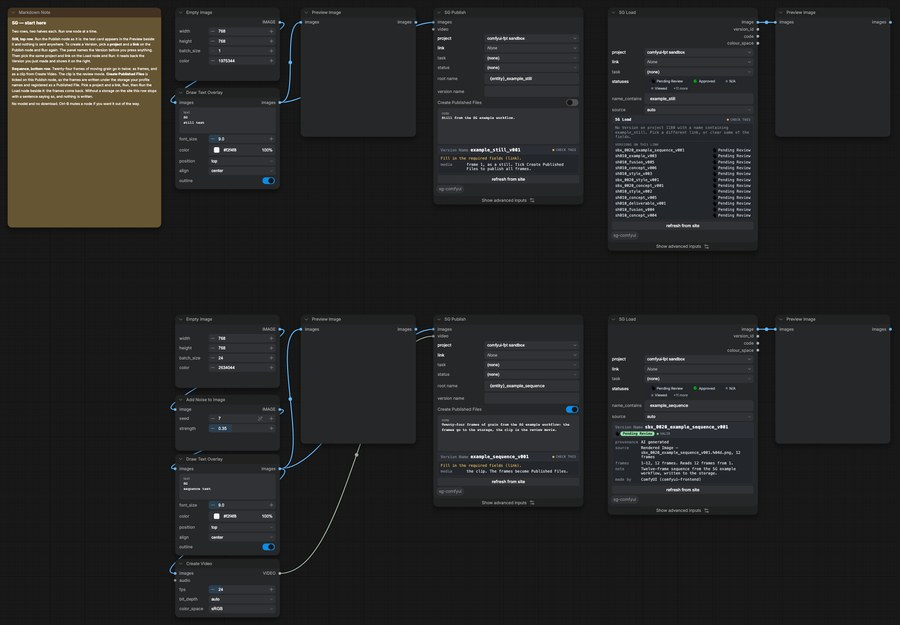
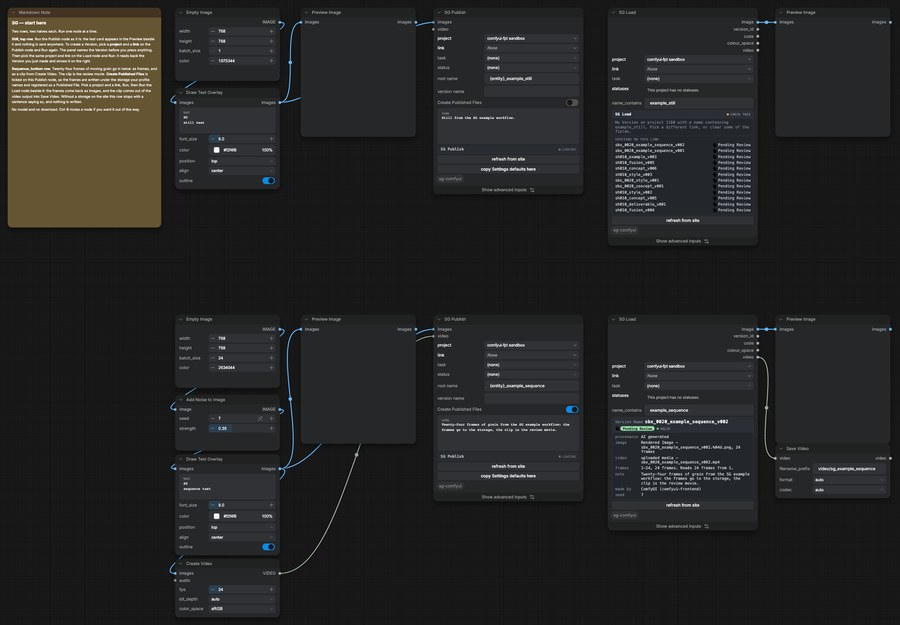
SG Load has two outputs, and each takes the best the Version has
image takes a sequence, else a clip decoded, else a still, else the thumbnail. video takes a Movie
Published File, else the movie on the storage, else the uploaded mp4 untouched, else the frames
wrapped at the Version's frame rate or 24 fps said out loud. source moves to the fold as the
override that feeds both outputs from one file; the site's transcode is never offered; the
thumbnail is a fallback and not a choice; the clip is fetched only when the output is wired. The
panel shows one row per output. 00_example's sequence row ends in a Save Video.

Claude-Session: https://claude.ai/code/session_01MwFkDPjc7RmqvNCP6967ir

diff --git a/web/sg_panel.js b/web/sg_panel.js
@@ -259,10 +259,11 @@ export function addPanel(node, title = "SG", onLayout = null) {
       // "unrecorded" never reads as "not AI": it says only that this Version carries no record of
       // how it was made, which is all the data supports.
       if (PROVENANCE[d.provenance]) rows.push(["provenance", PROVENANCE[d.provenance]]);
-      // What will actually be read, and what it claims to be. `source` is a combo holding a key, so
+      // What each output will take, and what it claims to be. `source` is a combo holding a key, so
       // the type, the filename and the frame count exist only here, and a colour space is what an
       // artist about to comp must see before the pixels reach a node that assumes sRGB.
-      if (d.source_label) rows.push(["source", d.source_label]);
+      if (d.image_label) rows.push(["image", d.image_label]);
+      if (d.video_label) rows.push(["video", d.video_label]);
       // The frame numbers this source has: `frame` is a number in a filename, and 0 means "wherever
       // the sequence starts", so the range belongs beside the widgets that ask for it.
       if (d.frames) {

diff --git a/src/comfyui_sg/nodes/load_version.py b/src/comfyui_sg/nodes/load_version.py
@@ -93,7 +93,7 @@ class SGLoadVersion:
                                  + " This project allows: "
                                  + ", ".join(l for l, _ in statuses)},
                 }),
-            "hidden": {"unique_id": "UNIQUE_ID"},
+            "hidden": {"unique_id": "UNIQUE_ID", "prompt": "PROMPT"},
         }
 
     @classmethod
@@ -112,8 +112,8 @@ class SGLoadVersion:
     # `colour_space` is an output rather than a log line because an artist about to comp acts on it:
     # it feeds the publish node's own colour_space widget, so a claim made once upstream travels
     # with the pixels. Empty when nothing was declared — recorded, never applied, never inferred.
-    RETURN_TYPES = ("IMAGE", "INT", "STRING", "STRING")
-    RETURN_NAMES = ("image", "version_id", "code", "colour_space")
+    RETURN_TYPES = ("IMAGE", "INT", "STRING", "STRING", "VIDEO")
+    RETURN_NAMES = ("image", "version_id", "code", "colour_space", "video")
     FUNCTION = "load"
     CATEGORY = "Flow Production Tracking"
     DESCRIPTION = ("Read a Flow Production Tracking Version's media into the graph, recording it "
@@ -187,7 +187,7 @@ class SGLoadVersion:
 
     def load(self, project=UNSET, link_type=UNSET, link=UNSET, task=UNSET, name_contains="",
               statuses=(), filters="", newest_by=resolve.BY_VERSION, pin_version_id=0, source=AUTO,
-              frame=0, frame_count=1, unique_id=None):
+              frame=0, frame_count=1, unique_id=None, prompt=None):
         if int(pin_version_id):
             vid, why = int(pin_version_id), "pinned by id"
         else:
@@ -212,12 +212,17 @@ class SGLoadVersion:
                 f"Version {vid} ({v.get('code')}) has no media this node can read. Check that the "
                 f"storage holding its files is mounted on this machine.")
 
-        key = available[0][0] if source in (AUTO, UNSET) else source.split(" — ")[0].strip()
-        if key not in [k for k, _ in available]:
-            # The labels, not the keys: a PublishedFile that has been renamed or re-typed no longer
-            # matches the saved value, and the listing is what tells you which.
-            raise ValueError(f"Version {vid} has no {key} to read. Pick one of these instead:\n  "
-                             + "\n  ".join(label for _, label in available))
+        # Each output takes its own best; a picked source makes both read that one file.
+        if source in (AUTO, UNSET):
+            key, clip_key = media.best(v, "image", available), media.best(v, "video", available)
+        else:
+            key = source.split(" — ")[0].strip()
+            if key not in [k for k, _ in available]:
+                # The labels, not the keys: a PublishedFile that has been renamed or re-typed no
+                # longer matches the saved value, and the listing is what tells you which.
+                raise ValueError(f"Version {vid} has no {key} to read. Pick one of these "
+                                 f"instead:\n  " + "\n  ".join(label for _, label in available))
+            clip_key = key if media.kind_of(v, key) == "movie" else ""
 
         # Recorded so a publish downstream can credit what was actually resolved — a rule-resolved
         # Version is not in the prompt graph, only the rule is. The file goes with it: a read that
@@ -238,6 +243,33 @@ class SGLoadVersion:
         # A batch that came back short is a fact about the media, said out loud rather than left for
         # the graph downstream to discover as a wrong frame count.
         short = f", short of the {frame_count} asked for" if len(frames) < int(frame_count) else ""
-        print(f"[SG] Loaded Version {vid}: {why}. Source {key}, {got}{short}."
+        images = torch.from_numpy(a)
+        # The clip is fetched only when something reads it: a download nobody asked for is a cost,
+        # and the frames wrapped at a stated rate are a video too.
+        if clip_key and _wired(prompt, unique_id, 4):
+            video, clip_why = media.clip(v, clip_key), f"the file, {clip_key}"
+        else:
+            fps, fps_why = media.frame_rate(v)
+            video, clip_why = _wrap(images, fps), f"the frames at {fps:g} fps, {fps_why}"
+        print(f"[SG] Loaded Version {vid}: {why}. Source {key}, {got}{short}. Video: {clip_why}."
               + (f" Colour space declared {colour}, recorded but not applied." if colour else ""))
-        return (torch.from_numpy(a), vid, v.get("code") or "", colour)
+        return (images, vid, v.get("code") or "", colour, video)
+
+
+def _wired(prompt, node_id, slot):
+    """Whether any node in the prompt reads this node's output `slot`."""
+    for node in (prompt or {}).values():
+        for val in (node.get("inputs") or {}).values():
+            if isinstance(val, list) and len(val) == 2 and str(val[0]) == str(node_id) \
+                    and int(val[1]) == slot:
+                return True
+    return False
+
+
+def _wrap(images, fps):
+    """An IMAGE batch as ComfyUI's own VIDEO object. Nothing is encoded until a node saves it."""
+    from fractions import Fraction
+
+    from comfy_api.input_impl import VideoFromComponents
+    from comfy_api.util import VideoComponents
+    return VideoFromComponents(VideoComponents(images=images, frame_rate=Fraction(fps)))

diff --git a/src/comfyui_sg/media.py b/src/comfyui_sg/media.py
@@ -18,7 +18,10 @@ import requests
 from sg_groundtruth.client import FPTError
 
 FIELDS = ["code", "image", "sg_uploaded_movie", "sg_path_to_movie", "sg_path_to_frames",
-          "sg_first_frame", "sg_last_frame"]
+          "sg_first_frame", "sg_last_frame", "sg_uploaded_movie_frame_rate"]
+
+# When no clip exists anywhere, the frames are wrapped at this rate and the log says so.
+DEFAULT_FPS = 24
 
 # Provenance the publish node writes (fields.py). Shown on the Load node so an artist can see what
 # they are building on before they run anything.
@@ -275,6 +278,69 @@ def sources(v):
         if detail:
             out.append((key, f"{label} — {detail}"))
     return out
+
+
+def kind_of(v, key):
+    """"sequence", "still" or "movie": the shape of what one source delivers."""
+    pf = pf_of(v, key)
+    if pf:
+        name = pf["path"]
+    elif key == "frames":
+        name = v.get("sg_path_to_frames") or ""
+    elif key == "movie":
+        name = v.get("sg_path_to_movie") or ""
+    elif key == "uploaded":
+        name = (v.get("sg_uploaded_movie") or {}).get("name") or ""
+    else:
+        return "still"
+    if SEQ.search(name):
+        return "sequence"
+    return "still" if name.lower().endswith(STILL) else "movie"
+
+
+# The Published File types a site publishes its deliverable as lead, then the rest by shape.
+_FRAMES_ORDER = ("sequence", "movie", "still")
+
+
+def best(v, want, available=None):
+    """The source the `image` or the `video` output takes on its own, or "" when nothing serves.
+
+    `image` takes frames from a sequence first, then a clip decoded, then a still, then the
+    thumbnail. `video` takes a clip only: a Movie Published File, the movie on the storage, the
+    uploaded mp4. A Published File beats a path field of the same shape because it carries a type,
+    per-platform paths and the declared colour space. The site's own transcode is never offered: it
+    is derived from the upload, lags it, and can describe a file that was replaced (probe 022).
+    """
+    keys = [k for k, _ in (available if available is not None else sources(v))]
+    if want == "video":
+        return next((k for k in keys if kind_of(v, k) == "movie"), "")
+    for shape in _FRAMES_ORDER:
+        for k in keys:
+            if k != "thumbnail" and kind_of(v, k) == shape:
+                return k
+    return "thumbnail" if "thumbnail" in keys else ""
+
+
+def clip(v, key):
+    """This source as ComfyUI's VIDEO, the file untouched. A path stays a path; an upload is held
+    in memory. Only a movie source answers; a sequence or a still is wrapped by the caller."""
+    from comfy_api.input_impl import VideoFromFile
+    pf = pf_of(v, key)
+    path = pf["path"] if pf else v.get("sg_path_to_movie") if key == "movie" else ""
+    if path:
+        return VideoFromFile(path)
+    if key == "uploaded":
+        import io
+        return VideoFromFile(io.BytesIO(_download(v["sg_uploaded_movie"]["url"])))
+    raise FPTError(f"{key} is not a clip this node can hand on as a video.")
+
+
+def frame_rate(v):
+    """(fps, why) for wrapping frames: the rate the site measured on an uploaded clip, else 24."""
+    fps = v.get("sg_uploaded_movie_frame_rate")
+    if fps and kind_of(v, "uploaded") == "movie":
+        return float(fps), "the uploaded clip's rate"
+    return float(DEFAULT_FPS), "the Version records no frame rate"
 
 
 def _pf_detail(pf):

diff --git a/src/comfyui_sg/routes.py b/src/comfyui_sg/routes.py
@@ -450,16 +450,23 @@ def register():
             # What the node itself would pick: `auto` is a rule, and only the site knows what it
             # lands on.
             picked = q.get("source", "") or "auto"
-            key = available[0][0] if (picked in ("auto", "") and available) \
-                else picked.split(" — ")[0].strip()
+            if picked == "auto":
+                key, clip_key = media.best(v, "image", available), media.best(v, "video", available)
+            else:
+                key = picked.split(" — ")[0].strip()
+                clip_key = key if media.kind_of(v, key) == "movie" else ""
+            label = dict(available)
+            fps, fps_why = media.frame_rate(v)
             # `media`, not `sources`: the publish panel spends `sources` on the Versions a publish
-            # came from.
+            # came from. The thumbnail is a fallback, never a choice.
             return {
                 **desc, "why": why, "filters": built,
-                "media": [k for k, _ in available],
-                # The label of what will actually be read: the type, the file and the count that the
-                # bare key cannot say.
-                "source_label": next((l for k, l in available if k == key), ""),
+                "media": [k for k, _ in available if k != "thumbnail"],
+                # What each output will take: the type, the file and the count that the bare key
+                # cannot say.
+                "image_label": label.get(key, ""),
+                "video_label": label.get(clip_key) if clip_key
+                else f"the frames at {fps:g} fps, {fps_why}",
                 # The frame numbers this source has, so `frame` is read off the panel rather than
                 # guessed. Only a sequence has them; a movie carries no numbering.
                 "frames": (lambda r: {"first": r[0], "last": r[1], "count": r[2]} if r else None)(

diff --git a/src/comfyui_sg/widgets.py b/src/comfyui_sg/widgets.py
@@ -95,8 +95,10 @@ LOAD_FIELDS = (
           tooltip="The statuses to accept, separated by commas; empty accepts any."),
     Field("name_contains", "text", default="",
           tooltip="Words that must all appear in the Version name, for example depth v0."),
-    Field("source", "combo", dynamic=True,
-          tooltip="Which of the Version's media to read. Auto takes the best it can deliver."),
+    # An override: each output takes its own best on auto, and a picked file feeds both.
+    Field("source", "combo", dynamic=True, advanced=True,
+          tooltip="Read both outputs from this one file. Auto takes the best for each: the frames "
+                  "on the storage for image, the movie for video."),
     Field("frame", "int", advanced=True, default=0, minimum=0, maximum=1048576,
           tooltip="The frame to start at, by the number in the filename: 1003 means "
                   "plate.1003.exr. 0 starts wherever the sequence starts, so a plate running "

diff --git a/DESIGN.md b/DESIGN.md
@@ -527,6 +527,29 @@ Tier 2 also resolves on anything this node published: a sequence publish writes 
 filled on 0 of 53 Versions and probe 022's verdict was to put the pattern there; until there was a shared
 root to point at, there was nothing to write.
 
+### Two outputs, one rule each
+
+A Version carries up to four representations of one piece of media, and on the sandbox they are
+filled unevenly: Published Files with a path on 27 of 110 Versions, path fields on 27, an upload on
+107, the site's transcode on 106, a thumbnail on 106. On the probed studio site (probe 021) most
+Versions have only the upload and the thumbnail. So the node has two outputs and each takes the best
+it can on its own: `image` a sequence, else a clip decoded, else a still, else the thumbnail; `video`
+a Movie Published File, else the movie on the storage, else the uploaded mp4 untouched, else the
+frames wrapped at the rate the site measured on the upload, or 24 fps said out loud. A Published File
+beats a path field of the same shape: it carries a type, a path per platform and the colour space.
+
+`sg_uploaded_movie_mp4` is never a source. It is derived from the upload, lands later, keeps
+describing a replaced file while the status reads done, and its frame rate is wrong for a still
+(probe 022). Nothing it offers is better than the upload it came from. The thumbnail is the last
+fallback of `image` and not a choice: a Version that only ever had a still image stays loadable, and
+nobody picks a 240px reference on purpose.
+
+`source` stays, in the fold, as the override: two sequence Published Files on one Version, or exactly
+the clip a reviewer saw. Picking one feeds both outputs from that file. Storage versus cloud is not a
+preference but a fact of the machine, and which Published File type is the deliverable is already
+the profile's `TYPE_CANDIDATES` order, so there is no Load setting. The clip is fetched only when the
+`video` output is wired: the hidden `PROMPT` says who reads which slot.
+
 ### A clip, not a frame
 
 A sequence that comes back one frame at a time is not an input to a video graph, so a source can deliver a

diff --git a/README.md b/README.md
@@ -157,11 +157,23 @@ are a rule an artist would say out loud — *the newest approved depth on this s
 (`pin_version_id`) is the escape hatch. Anything published downstream records the Version it came
 from, without anyone typing an id.
 
-`source` lists what that Version can actually deliver, best first, and published files lead. Where a
-Version published several, each is its own choice named by type and filename —
+Two media outputs, and each takes the best the Version has on its own:
+
+| output | takes, in order |
+|---|---|
+| `image` | the sequence, as a Published File then as path to frames; else a clip decoded; else the uploaded still; else the thumbnail |
+| `video` | a Movie Published File; else path to movie; else the uploaded mp4, untouched; else the frames wrapped at the Version's frame rate, or 24 fps when it records none |
+
+A Published File beats a path field of the same shape because it carries a type, a path per
+platform and the declared colour space. A file on a root this machine has not mounted does not
+count, so a laptop without the storage falls through to the upload by itself. The site's own
+transcode is never read: it is derived from the upload, lags it, and can describe a file that was
+replaced. The panel shows what each output will take before you run.
+
+`source`, in the fold, is the override: pick one file and both outputs read it. Where a Version
+published several, each is its own choice named by type and filename —
 `Rendered Image · sh010_comp_v003.%04d.png #6843` beside `Movie · sh010_comp_v003.mp4 #6844` — so the
-rendered sequence and the mp4 are told apart at a glance. A file whose path is on a root this machine
-has not mounted is not offered at all.
+rendered sequence and the mp4 are told apart at a glance.
 
 `frame` is the first frame and `frame_count` is how many, as one IMAGE batch — which is what makes a
 loaded clip a real input to a video graph.

diff --git a/RELEASE.md b/RELEASE.md
@@ -255,6 +255,13 @@ concept on the operator's machine and publishes it, 02 loads that Version and pu
 `example_workflows/demo_01_roto_plate.mp4`, which no graph read, is deleted. `seed.py` stays: it is
 how `/track-workflow` gets an existing graph's file into the site, not a demo tool.
 
+**SG Load has two outputs, decided with Kevin.** `image` and `video`, each taking the best the
+Version has on its own, `source` folded as the override, the site's transcode never offered, the
+thumbnail a fallback and not a choice, the clip fetched only when the output is wired. DESIGN.md
+"Two outputs, one rule each" has the reasoning and the measured counts. Kevin: saved graphs before
+the release may break; nothing has shipped. `00_example`'s sequence row ends in a Save Video on the
+Load node's video output.
+
 **`qa_node.py`** serves the pack under `[project].name` from `pyproject.toml` rather than the
 checkout's directory name, so the Templates category and the footer badge in a headless run show
 what a Registry install shows.
